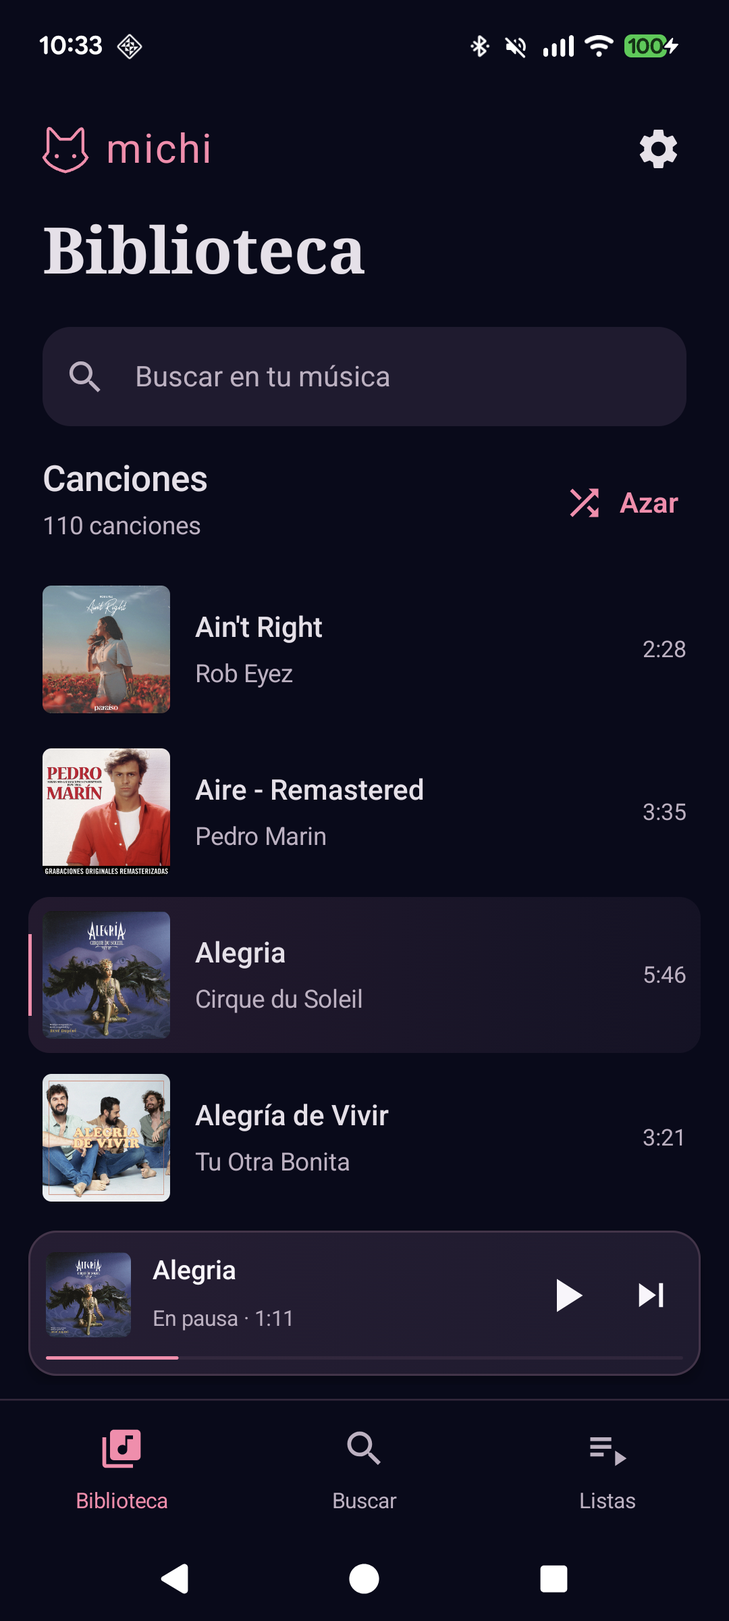
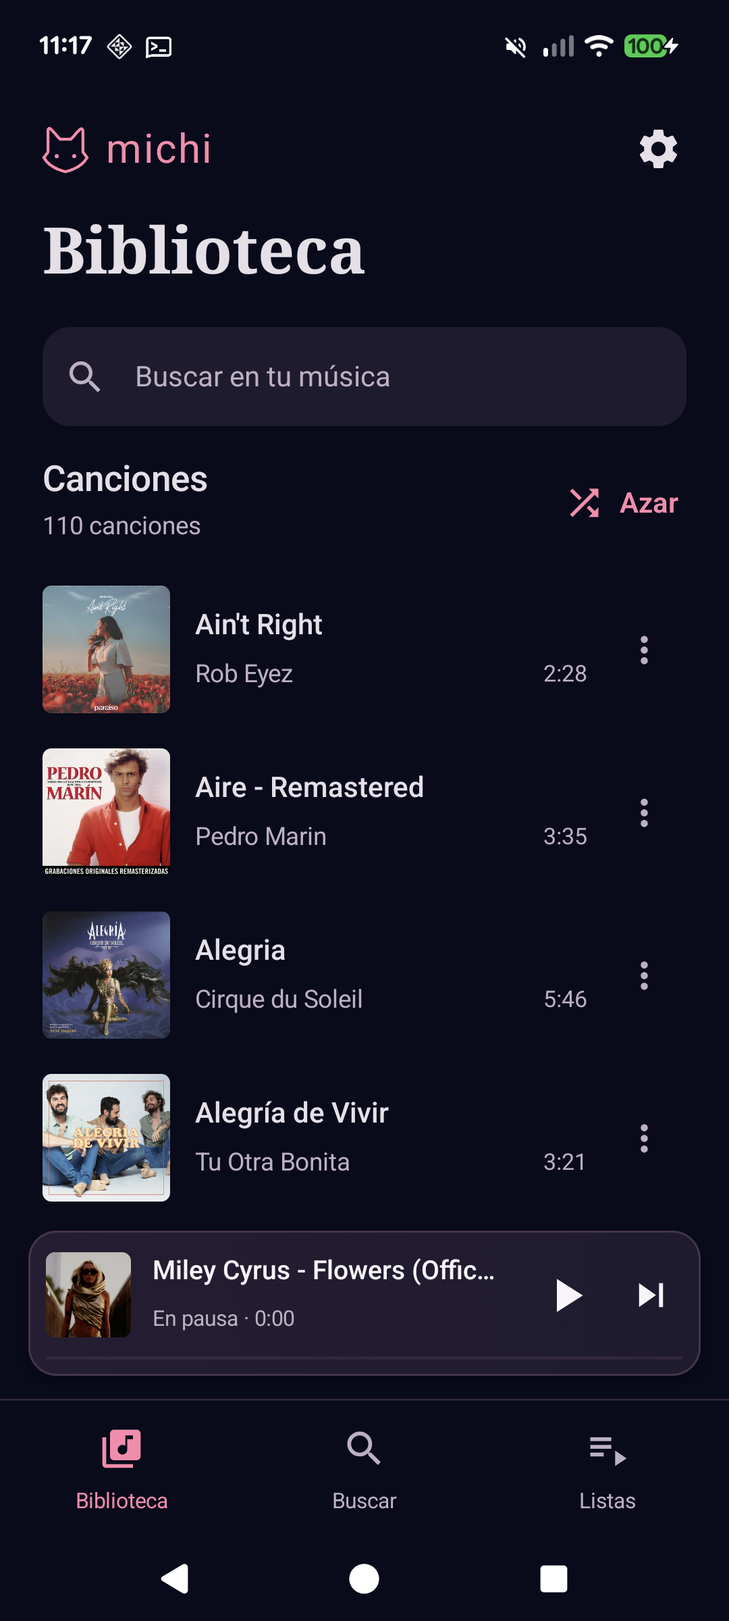
Permitir borrar canciones con confirmacion y actualizar la cola

diff --git a/app/src/main/java/com/ainalluna/michimusica/MainActivity.kt b/app/src/main/java/com/ainalluna/michimusica/MainActivity.kt
@@ -52,6 +52,9 @@ import androidx.media3.session.SessionToken
 import com.ainalluna.michimusica.library.MarkdownPlaylist
 import com.ainalluna.michimusica.library.MusicFolderReader
 import com.ainalluna.michimusica.library.Song
+import com.ainalluna.michimusica.library.deleteSongFile
+import com.ainalluna.michimusica.library.removedSongIndices
+import com.ainalluna.michimusica.ui.SongDeletionDialog
 import com.ainalluna.michimusica.lyrics.LyricsScreen
 import com.ainalluna.michimusica.playback.PlaybackService
 import com.ainalluna.michimusica.playback.canAdvanceTrack
@@ -76,6 +79,8 @@ import kotlinx.coroutines.delay
 import kotlinx.coroutines.Dispatchers
 import kotlinx.coroutines.withContext
 import kotlinx.coroutines.CancellationException
+import kotlinx.coroutines.NonCancellable
+import kotlinx.coroutines.launch
 import java.text.Normalizer
 
 private const val PREFS = "michi_preferences"
@@ -138,6 +143,10 @@ private fun MichiApp() {
     var libraryLoaded by remember { mutableStateOf(false) }
     var notice by remember { mutableStateOf<LibraryNotice?>(null) }
     var controller by remember { mutableStateOf<MediaController?>(null) }
+    val deletionScope = rememberCoroutineScope()
+    var songToDelete by remember { mutableStateOf<Song?>(null) }
+    var deletingSong by remember { mutableStateOf(false) }
+    var deletionError by remember { mutableStateOf<String?>(null) }
 
     val folderPicker = rememberLauncherForActivityResult(ActivityResultContracts.OpenDocumentTree()) { uri ->
         if (uri != null) runCatching {
@@ -296,6 +305,7 @@ private fun MichiApp() {
             songs, library, savedPlaylists, controller, folderUri, playlistUri, skin, playlistName, resume,
             loading = loading, listsLoading = listsLoading, notice = notice, artworkRevision = folderRevision, restoreRevision = restoreRevision,
             onDismissNotice = { notice = null },
+            onDeleteSong = { songToDelete = it; deletionError = null },
             onChooseFolder = { folderPicker.launch(folderUri) },
             onChoosePlaylist = { playlistPicker.launch(arrayOf("text/markdown", "text/plain")) },
             onAllMusic = {
@@ -322,6 +332,43 @@ private fun MichiApp() {
                 skinName = if (it == MichiSkin.ROSE) "rose" else "midnight"; preferences.edit { putString(PREF_SKIN, skinName) }
             },
         )
+        songToDelete?.let { target ->
+            SongDeletionDialog(target, deletingSong, deletionError,
+                onDismiss = { if (!deletingSong) { songToDelete = null; deletionError = null } },
+                onConfirm = {
+                    val source = folderUri
+                    if (!deletingSong && source != null) {
+                        deletingSong = true; deletionError = null
+                        deletionScope.launch {
+                            // Once confirmed, reconcile the queue/preferences even if the screen is disposed.
+                            withContext(NonCancellable) {
+                                runCatching {
+                                    require(library.any { it.id == target.id && it.uri == target.uri }) { "La canción ya no está en esta biblioteca." }
+                                    withContext(Dispatchers.IO) { deleteSongFile(context, source, target.uri) }
+                                }.onSuccess {
+                                    runCatching { controller?.let { player ->
+                                        if (player.currentMediaItem?.mediaId == target.id) player.pause()
+                                        removedSongIndices(List(player.mediaItemCount) { player.getMediaItemAt(it).mediaId }, target.id)
+                                            .forEach { player.removeMediaItem(it) }
+                                    } }.onFailure { notice = LibraryNotice("El archivo se ha borrado, pero no pude actualizar el reproductor. Vuelve a abrir Michi.") }
+                                    if (pendingResume?.songId == target.id) pendingResume = null
+                                    if (preferences.getString(PREF_LAST_SONG, null) == target.id) preferences.edit {
+                                        remove(PREF_LAST_SONG); remove(PREF_LAST_POSITION); remove(PREF_LAST_PLAYLIST)
+                                    }
+                                    library.removeAll { it.id == target.id }; songs.removeAll { it.id == target.id }
+                                    playlistRevision++
+                                    songToDelete = null
+                                }.onFailure {
+                                    deletionError = if (it is SecurityException) "Android ha retirado el permiso. Vuelve a elegir la carpeta en Ajustes."
+                                        else it.message ?: "No se pudo borrar la canción. Inténtalo de nuevo."
+                                }
+                                deletingSong = false
+                            }
+                        }
+                    }
+                },
+            )
+        }
     }
 }
 
@@ -332,6 +379,7 @@ private fun MichiRoot(
     onSelectPlaylist: (Uri) -> Unit, onResume: (ResumeListening, Boolean, Boolean) -> Unit,
     onDownloaded: (String) -> Unit, onSkinChange: (MichiSkin) -> Unit,
     loading: Boolean, listsLoading: Boolean, notice: LibraryNotice?, artworkRevision: Int, restoreRevision: Int, onDismissNotice: () -> Unit,
+    onDeleteSong: (Song) -> Unit,
 ) {
     var destination by rememberSaveable { mutableStateOf(Destination.MUSIC) }
     var nowPlaying by rememberSaveable { mutableStateOf(false) }
@@ -394,7 +442,7 @@ private fun MichiRoot(
                 nowPlaying && visibleSong != null -> NowPlayingScreen(visibleSong, if (song != null) state else state.copy(position = visiblePosition, duration = visibleSong.durationMs), if (song != null) player else null, { nowPlaying = false }, { lyricsOpen = true }, sourceName = playlistName, artworkRevision = artworkRevision)
                 else -> when (destination) {
                     Destination.MUSIC -> LibraryScreen(songs, state, player, skin, playlistName, resume, { state = state.copy(engaged = true) }, onChooseFolder, onRefresh, onSkinChange,
-                        loading, notice, artworkRevision, onAllMusic, onDismissNotice)
+                        loading, notice, artworkRevision, onAllMusic, onDismissNotice, onDeleteSong)
                     Destination.SEARCH -> YouTubeScreen(searchController, onChooseFolder)
                     Destination.PLAYLISTS -> PlaylistsScreen(
                         library.size, savedPlaylists, playlistUri,
@@ -444,6 +492,7 @@ private fun LibraryScreen(
     onSkinChange: (MichiSkin) -> Unit,
     loading: Boolean = false, notice: LibraryNotice? = null, artworkRevision: Int = 0,
     onAllMusic: () -> Unit = {}, onDismissNotice: () -> Unit = {},
+    onDeleteSong: ((Song) -> Unit)? = null,
 ) {
     var settings by remember { mutableStateOf(false) }
     LibraryHome(
@@ -464,6 +513,7 @@ private fun LibraryScreen(
         },
         onSettings = { settings = true }, onChooseFolder = onChooseFolder,
         onAllMusic = onAllMusic, onDismissNotice = onDismissNotice,
+        onDelete = onDeleteSong,
     )
     if (settings) AlertDialog({ settings = false }, title = { Text("Michi Música") }, text = { Column {
         Text("Apariencia", style = MaterialTheme.typography.titleMedium)

diff --git a/app/src/main/java/com/ainalluna/michimusica/ui/LibraryHome.kt b/app/src/main/java/com/ainalluna/michimusica/ui/LibraryHome.kt
@@ -48,6 +48,7 @@ fun LibraryHome(
     loading: Boolean, notice: LibraryNotice?, sourceName: String?, artworkRevision: Int,
     onSelect: (Song) -> Unit, onShuffle: () -> Unit, onSettings: () -> Unit,
     onChooseFolder: () -> Unit, onAllMusic: () -> Unit, onDismissNotice: () -> Unit,
+    onDelete: ((Song) -> Unit)? = null,
 ) {
     var query by rememberSaveable { mutableStateOf("") }
     val wanted = searchable(query)
@@ -117,14 +118,15 @@ fun LibraryHome(
         }
         items(filtered, key = Song::id) { song ->
             HomeSongRow(song, song.id == selectedSongId, playing && song.id == selectedSongId, ready && !loading,
-                artworkRevision) { focus.clearFocus(); onSelect(song) }
+                artworkRevision, onDelete = onDelete?.let { action -> { focus.clearFocus(); action(song) } }) { focus.clearFocus(); onSelect(song) }
         }
     }
 }
 
 @Composable
-private fun HomeSongRow(song: Song, selected: Boolean, playing: Boolean, enabled: Boolean, artworkRevision: Int, onSelect: () -> Unit) {
+private fun HomeSongRow(song: Song, selected: Boolean, playing: Boolean, enabled: Boolean, artworkRevision: Int, onDelete: (() -> Unit)?, onSelect: () -> Unit) {
     val colors = MaterialTheme.colorScheme
+    var menuOpen by remember(song.id) { mutableStateOf(false) }
     Box(Modifier.fillMaxWidth().padding(vertical = 2.dp).clip(RoundedCornerShape(12.dp))
         .background(if (selected) Brush.horizontalGradient(listOf(colors.primaryContainer.copy(alpha = .6f), colors.surfaceContainerHigh.copy(alpha = .5f))) else Brush.linearGradient(listOf(Color.Transparent, Color.Transparent)))
         .clickable(enabled = enabled, role = Role.Button, onClickLabel = "Reproducir ${song.title}", onClick = onSelect)
@@ -134,11 +136,21 @@ private fun HomeSongRow(song: Song, selected: Boolean, playing: Boolean, enabled
             SongArtwork(song, Modifier.size(72.dp), artworkRevision)
             Column(Modifier.weight(1f).padding(start = 14.dp, end = 8.dp)) {
                 Text(song.title, fontSize = 16.sp, lineHeight = 22.sp, fontWeight = FontWeight.Medium, maxLines = 1, overflow = TextOverflow.Ellipsis)
-                Text(song.artist.ifBlank { song.filename }, Modifier.padding(top = 5.dp), fontSize = 14.sp, lineHeight = 20.sp,
+                Row(Modifier.padding(top = 5.dp), verticalAlignment = Alignment.CenterVertically) {
+                Text(song.artist.ifBlank { song.filename }, Modifier.weight(1f), fontSize = 14.sp, lineHeight = 20.sp,
                     color = colors.onSurfaceVariant, maxLines = 1, overflow = TextOverflow.Ellipsis)
+                Text(if (song.durationMs > 0) formatTime(song.durationMs) else "—", Modifier.padding(start = 8.dp), fontSize = 13.sp, color = colors.onSurfaceVariant)
+                }
             }
             if (playing) PlayingBars(Modifier.size(16.dp))
-            Text(if (song.durationMs > 0) formatTime(song.durationMs) else "—", Modifier.padding(start = 8.dp), fontSize = 13.sp, color = colors.onSurfaceVariant)
+            if (onDelete != null) Box {
+                IconButton({ menuOpen = true }, enabled = enabled) {
+                    HomeIcon(R.drawable.ic_lyrics_more_vert, "Opciones de ${song.title}", tint = colors.onSurfaceVariant)
+                }
+                DropdownMenu(expanded = menuOpen, onDismissRequest = { menuOpen = false }) {
+                    DropdownMenuItem(text = { Text("Borrar canción", color = colors.error) }, onClick = { menuOpen = false; onDelete() })
+                }
+            }
         }
     }
 }

diff --git a/app/src/main/java/com/ainalluna/michimusica/ui/SongDeletionDialog.kt b/app/src/main/java/com/ainalluna/michimusica/ui/SongDeletionDialog.kt
@@ -1,0 +1,36 @@
+package com.ainalluna.michimusica.ui
+
+import androidx.compose.foundation.layout.*
+import androidx.compose.material3.*
+import androidx.compose.runtime.Composable
+import androidx.compose.ui.Modifier
+import androidx.compose.ui.semantics.LiveRegionMode
+import androidx.compose.ui.semantics.liveRegion
+import androidx.compose.ui.semantics.semantics
+import androidx.compose.ui.unit.dp
+import com.ainalluna.michimusica.library.Song
+
+@Composable
+internal fun SongDeletionDialog(song: Song, busy: Boolean, error: String?, onDismiss: () -> Unit, onConfirm: () -> Unit) {
+    AlertDialog(
+        onDismissRequest = { if (!busy) onDismiss() },
+        title = { Text("¿Borrar esta canción?") },
+        text = {
+            Column(verticalArrangement = Arrangement.spacedBy(12.dp)) {
+                Text(song.title, style = MaterialTheme.typography.titleMedium)
+                Text("Se eliminará el archivo «${song.filename}» de tu carpeta y dejará de estar disponible en tus listas. No se puede deshacer desde Michi.")
+                if (busy) {
+                    LinearProgressIndicator(Modifier.fillMaxWidth())
+                    Text("Borrando…", Modifier.semantics { liveRegion = LiveRegionMode.Polite })
+                }
+                if (error != null) Text(error, Modifier.semantics { liveRegion = LiveRegionMode.Polite }, color = MaterialTheme.colorScheme.error)
+            }
+        },
+        confirmButton = {
+            TextButton(onConfirm, enabled = !busy, colors = ButtonDefaults.textButtonColors(contentColor = MaterialTheme.colorScheme.error)) {
+                Text(if (error == null) "Borrar canción" else "Reintentar")
+            }
+        },
+        dismissButton = { TextButton(onDismiss, enabled = !busy) { Text("Cancelar") } },
+    )
+}

diff --git a/app/src/debug/java/com/ainalluna/michimusica/ui/LibraryHomePreviews.kt b/app/src/debug/java/com/ainalluna/michimusica/ui/LibraryHomePreviews.kt
@@ -26,6 +26,7 @@ fun LibraryHomePreviewContent(skin: MichiSkin = MichiSkin.MIDNIGHT, hasSelection
     var playing by remember { mutableStateOf(false) }
     var notice by remember { mutableStateOf(initialNotice) }
     var position by remember { mutableLongStateOf(84_000L) }
+    var deleteTarget by remember { mutableStateOf<Song?>(null) }
     MichiTheme(skin) {
         Scaffold(bottomBar = {
             Column(Modifier.fillMaxWidth()) {
@@ -41,9 +42,10 @@ fun LibraryHomePreviewContent(skin: MichiSkin = MichiSkin.MIDNIGHT, hasSelection
                 LibraryHome(homeSamples, selected?.id, playing, true, false, notice, null, 0,
                     onSelect = { selected = it; playing = true; position = 0 },
                     onShuffle = { selected = homeSamples.last(); playing = true; position = 0 },
-                    onSettings = {}, onChooseFolder = {}, onAllMusic = {}, onDismissNotice = { notice = null })
+                    onSettings = {}, onChooseFolder = {}, onAllMusic = {}, onDismissNotice = { notice = null }, onDelete = { deleteTarget = it })
             }
         }
+        deleteTarget?.let { SongDeletionDialog(it, false, null, { deleteTarget = null }, { deleteTarget = null }) }
     }
 }
 

diff --git a/app/src/main/java/com/ainalluna/michimusica/library/DeleteSong.kt b/app/src/main/java/com/ainalluna/michimusica/library/DeleteSong.kt
@@ -1,0 +1,21 @@
+package com.ainalluna.michimusica.library
+
+import android.content.Context
+import android.net.Uri
+import androidx.documentfile.provider.DocumentFile
+
+/** Delete only a supported audio file directly inside the currently authorized folder. */
+internal fun deleteSongFile(context: Context, folderUri: Uri, songUri: Uri) {
+    val root = DocumentFile.fromTreeUri(context, folderUri)
+        ?: error("No puedo abrir la carpeta. Vuelve a elegirla en Ajustes.")
+    val document = root.listFiles().firstOrNull { it.uri == songUri }
+        ?: error("El archivo ya no está disponible. Relee la carpeta desde Ajustes.")
+    require(document.isFile && MusicFolderReader.isSupportedAudio(document.name.orEmpty())) {
+        "Solo se pueden borrar archivos de audio de esta carpeta."
+    }
+    check(document.delete()) { "Android no pudo borrar el archivo. Comprueba que la carpeta permite eliminar archivos." }
+}
+
+/** Descending indices keep every remaining entry and its order, including duplicate references. */
+internal fun removedSongIndices(queueIds: List<String>, songId: String): List<Int> =
+    queueIds.indices.reversed().filter { queueIds[it] == songId }

diff --git a/app/src/test/java/com/ainalluna/michimusica/SongDeletionTest.kt b/app/src/test/java/com/ainalluna/michimusica/SongDeletionTest.kt
@@ -1,0 +1,25 @@
+package com.ainalluna.michimusica
+
+import com.ainalluna.michimusica.library.removedSongIndices
+import org.junit.Assert.*
+import org.junit.Test
+
+class SongDeletionTest {
+    @Test fun deletingRepeatedReferencesPreservesOtherSongsAndTheirOrder() {
+        val queue = mutableListOf("a", "deleted", "b", "deleted", "c")
+        removedSongIndices(queue, "deleted").forEach { queue.removeAt(it) }
+        assertEquals(listOf("a", "b", "c"), queue)
+    }
+
+    @Test fun deletingLastSongLeavesNoPlayableReference() {
+        val queue = mutableListOf("deleted")
+        removedSongIndices(queue, "deleted").forEach { queue.removeAt(it) }
+        assertTrue(queue.isEmpty())
+    }
+
+    @Test fun deletingSongOutsideActiveQueueDoesNotAffectPlaybackOrder() {
+        val queue = listOf("c", "a", "b")
+        assertTrue(removedSongIndices(queue, "elsewhere").isEmpty())
+        assertTrue(removedSongIndices(emptyList(), "elsewhere").isEmpty())
+    }
+}

diff --git a/docs/BORRADO_Y_PODCASTS.md b/docs/BORRADO_Y_PODCASTS.md
@@ -1,0 +1,27 @@
+# Borrar canciones y separar podcasts
+
+## Borrado — implementación 1.10.1
+
+Petición de Aina: falta una acción para borrar canciones. Se añade al menú de tres puntos de cada fila de Biblioteca, también cuando se muestra una lista importada. La acción se llama **Borrar canción**. La duración se coloca en la línea secundaria para reservar espacio al menú sin estrechar más el título.
+
+Antes de modificar archivos se muestra el título y nombre del archivo, el alcance y las acciones Cancelar/Borrar canción. El mensaje aclara que se elimina el archivo de la carpeta y deja de estar disponible en las listas, y que Michi no ofrece deshacer. Durante la operación se evita confirmar dos veces y se muestra progreso. Un error permanece en ese diálogo con Reintentar y Cancelar.
+
+El proveedor SAF elimina únicamente el audio seleccionado dentro de la carpeta autorizada. La función verifica pertenencia directa a esa carpeta, que sea un archivo y que su extensión sea de audio compatible. No borra directorios ni letras asociadas ni edita los Markdown. Si falla el proveedor, no se retira la canción de la biblioteca ni se cambia la cola. Las referencias Markdown que apuntaban al audio borrado dejan de resolverse; la recuperación de listas sin ninguna canción disponible sigue en MMA-026.
+
+Tras éxito se retiran todas sus referencias de la cola y la biblioteca y se elimina su reanudación guardada. Si era la pista actual, se pausa antes de retirarla, sin empezar otra automáticamente. Si sonaba otra pista, se conserva su reproducción. Se actualizan los resúmenes de listas. Una operación confirmada termina su conciliación de estado aunque se cierre esa pantalla; Android todavía puede terminar el proceso y la próxima lectura de carpeta reflejará los archivos existentes.
+
+Fuentes de implementación: [DocumentsContract](https://developer.android.com/reference/android/provider/DocumentsContract) y [modificar colas Media3](https://developer.android.com/media/media3/exoplayer/playlists). Pruebas y resultados efectivos: historial y backlog.
+
+## Podcasts — propuesta, todavía sin implementar
+
+Aina escucha podcasts de YouTube y no quiere encontrarlos en la música normal. Una playlist llamada Podcasts no basta: los episodios seguirían apareciendo en la biblioteca completa y en Azar.
+
+Propuesta de producto:
+
+1. Conservar Biblioteca · Buscar · Listas en la navegación inferior. Dentro de Biblioteca, un selector sencillo **Música / Podcasts**. La app abre en Música; cambiar de sección no inicia ni interrumpe por sí solo la reproducción.
+2. En Guardar MP3, elegir **Guardar en Música** o **Guardar en Podcasts**. Mantener la última elección visible; no deducir la categoría por duración, título o canal.
+3. Para audios ya descargados, menú **Marcar como podcast** y la acción inversa **Marcar como música**. Es una clasificación local del catálogo, sin editar etiquetas ni mover archivos que las listas existentes referencian.
+4. Música, su búsqueda, sus listas y Azar excluyen los podcasts. Podcasts construye su propia cola al iniciar un episodio. El mini reproductor mantiene la escucha en curso aunque se consulte la otra sección.
+5. Guardar la posición de cada episodio para continuar donde se dejó. Más adelante, valorar velocidad y saltos de 15 segundos como controles propios de podcasts.
+
+Antes de implementar: concretar restauración de la clasificación si se cambia de carpeta o se reinstala, comportamiento de listas importadas que mezclen ambos tipos y estados de episodios nuevos/en curso/finalizados. Los audios todavía sin clasificar permanecen en Música para no ocultar contenido existente. La propuesta no añade suscripciones RSS ni guarda vídeos en esta entrega.

diff --git a/docs/HISTORIAL_CAMBIOS.md b/docs/HISTORIAL_CAMBIOS.md
@@ -1,5 +1,16 @@
 # Historial de cambios
 
+## 2026-09-05 — Michi Música 1.10.1: borrar canciones
+
+- Menú de tres puntos en las filas de Biblioteca, también dentro de una lista importada. Duración en la línea secundaria para reservar espacio al menú.
+- Borrar canción pide confirmación con título, archivo y alcance. Cancelar conserva el audio; la operación muestra progreso y errores con reintento. Solo elimina el archivo de audio seleccionado directamente dentro de la carpeta SAF autorizada. No modifica los Markdown ni borra letras asociadas.
+- Tras éxito, retira todas las referencias de la cola, actualiza biblioteca/listas y descarta la reanudación del audio eliminado. Si es la pista actual, pausa antes de retirarla; no inicia otra automáticamente.
+- `test lint assembleDebug assembleRelease --offline`, JDK 21: BUILD SUCCESSFUL. 43 pruebas debug y 43 release sin fallos; lint app 0 errores/16 advertencias. Firma release verificada con apksigner.
+- Instalada debug 1.10.1 (código 19) en Pixel 7 conservando datos. Prueba con WAV silencioso creado expresamente: Cancelar conserva el archivo; confirmar lo elimina y vuelve de 111 a 110 canciones. Segunda prueba con audio de tres minutos en reproducción: borrado confirmado, siguiente pista pausada en 0:00 y archivo ausente. Solo se borraron los archivos de prueba; se conservan las 110 canciones originales. Pendientes proveedores con errores/permisos y casos ampliados de cola: MMA-035.
[1 lines of base64/hex data omitted]
+- Aina plantea separar podcasts de YouTube de la música normal. Propuesta registrada en `BORRADO_Y_PODCASTS.md`: Música/Podcasts dentro de Biblioteca, destino al guardar, clasificación de audios existentes, colas separadas y posición por episodio. No implementada en esta versión.
+
+
 ## 2026-09-05 — Aclaración de las funciones de YouTube en README
 
 - Sustituida la frase ambigua «Ver no descarga un MP3» por dos funciones explícitas: Ver vídeo reproduce dentro de la app y Guardar MP3 descarga el audio a la carpeta de música para escucharlo sin conexión. Cambio documental; la descarga sigue disponible y no cambia la APK.

diff --git a/docs/CONTINUIDAD.md b/docs/CONTINUIDAD.md
@@ -60,7 +60,13 @@ Rutas relativas a `app/src/main/java/com/ainalluna/michimusica/`:
 
 Previews en `app/src/debug/java/com/ainalluna/michimusica/ui/`: abrir por nombre con Ctrl+Shift+N en Android Studio, variante debug, Split, Build & Refresh. Usan componentes reales con datos ficticios; no sustituyen la prueba de permisos, red, audio o archivos. Arquitectura ampliada en [ARQUITECTURA.md](ARQUITECTURA.md).
 
+## Trabajo posterior: borrado y podcasts
+
+Aina pide borrar canciones y plantea separar podcasts de YouTube de su música. Borrado implementado en 1.10.1 (código 19), instalado en Pixel y validado con archivos de prueba; la separación de podcasts es una propuesta pendiente, no una función disponible. Especificación y decisiones en [Borrado y podcasts](BORRADO_Y_PODCASTS.md). No borrar audios reales durante pruebas; usar archivos creados para la validación.
+
 ## Última entrega y punto exacto de reanudación
+
+Actualización de borrado: **1.10.1**, [release](https://github.com/seoutopico/michi-musica-android/releases/tag/v1.10.1). 43 pruebas por variante, lint sin errores y firma release verificada. El Pixel conserva la firma debug para mantener sus datos. Podcasts sigue siendo una propuesta.
 
 **1.10.0, código 18**, publicada: [repositorio público](https://github.com/seoutopico/michi-musica-android) y [APK firmadas de la release](https://github.com/seoutopico/michi-musica-android/releases/tag/v1.10.0), nuevo icono adaptativo y módulo `iconpack` para Niagara. Aina autoriza crear el repositorio público, distribuir la APK, explicar el uso de IA y facilitar contribuciones. Leer README, CONTRIBUTING, PRIVACY, SECURITY y THIRD_PARTY antes de publicar o cambiar servicios externos. CI aún no está activado: plantilla y explicación en `docs/ci/`; no hay una ejecución remota aprobada. Los informes privados de vulnerabilidades de GitHub sí están habilitados.
 

diff --git a/README.md b/README.md
@@ -26,6 +26,7 @@ Capturas de Android con la biblioteca y carátulas reales de Aina-Lluna, publica
 ## Qué puedes hacer
 
 - **Biblioteca local:** elegir una carpeta de Android y reproducir MP3, WAV, OGG, M4A, AAC, FLAC y OPUS; buscar por título, artista, álbum o archivo.
+- **Borrar canciones:** menú de tres puntos de cada pista → Borrar canción, con confirmación antes de eliminar el archivo de la carpeta.
 - **Escucha continua:** reproducción en segundo plano, controles del sistema, pausa, anterior, siguiente, progreso, Azar sin repeticiones dentro de una ronda y repetir una canción.
 - **Retomar:** última canción y posición guardadas; abrir la app no inicia música automáticamente. El mini reproductor mantiene su lugar sobre la navegación.
 - **Ver vídeos de YouTube:** busca o pega un enlace y pulsa **Ver vídeo** para reproducirlo dentro de la app, con controles y pantalla completa. Algunos vídeos pueden restringir su inserción y ofrecer apertura en YouTube.
@@ -41,7 +42,7 @@ Los audios locales permanecen en el dispositivo. Buscar vídeos, verlos, descarg
 
 **Requisitos:** Android 8.0 o posterior y dispositivo **ARM64**. La APK actual no cubre móviles de 32 bits ni emuladores x86. Las comprobaciones nativas se realizan en Pixel 7.
 
-1. Abre [Releases](https://github.com/seoutopico/michi-musica-android/releases/latest) y descarga `Michi-Musica-1.10.0-arm64.apk`.
+1. Abre [Releases](https://github.com/seoutopico/michi-musica-android/releases/latest) y descarga `Michi-Musica-1.10.1-arm64.apk`.
 2. Abre la APK en Android. Si lo solicita, permite a ese navegador o gestor de archivos instalar aplicaciones desde esa fuente. Puedes retirar ese permiso después.
 3. Abre Michi Música y elige tu carpeta de música mediante el selector de Android.
 4. Opcional: instala `Michi-Iconos-1.0.0.apk` y sigue la [guía de Niagara](docs/NIAGARA.md).

diff --git a/docs/BACKLOG.md b/docs/BACKLOG.md
@@ -25,6 +25,9 @@
 
 | MMA-033 | P2 | Activar CI en GitHub | Copiar `docs/ci/android.yml` a `.github/workflows/android.yml` con una conexión autorizada para workflows y verificar su primera ejecución. La conexión inicial no tiene ese alcance. |
 
+| MMA-035 | P2 | Ampliar validación de borrado | En Pixel: Cancelar conserva archivo; borrar audio de prueba en reproducción lo elimina y deja siguiente pista pausada; 110 canciones originales conservadas. Pendientes errores/permisos de proveedores, no actual mientras suena otra, última pista y listas repetidas en dispositivo. Cola con duplicados/vacía cubierta por pruebas unitarias. |
+| MMA-036 | P2 | Separar Música y Podcasts | Propuesta en `BORRADO_Y_PODCASTS.md`: dos secciones, destino al guardar MP3, clasificación de audios existentes, colas separadas y posición por episodio. Todavía sin implementar. |
+
 ## Hecho
 
 | ID | Fecha | Trabajo | Verificación |

diff --git a/docs/screenshots/README.md b/docs/screenshots/README.md
@@ -1,6 +1,6 @@
 # Capturas públicas
 
-Tomadas en Android, Pixel 7, Michi Música 1.10.0, el 5 de septiembre de 2026.
+Tomadas en Android, Pixel 7, Michi Música 1.10.0 (Biblioteca actualizada a 1.10.1), el 5 de septiembre de 2026.
 
 Aina-Lluna pidió expresamente sustituir las primeras capturas ficticias por su biblioteca real para mostrar las carátulas. Se publican únicamente estas imágenes seleccionadas y revisadas, sin audios, documentos de listas, rutas privadas ni notificaciones personales.
 
